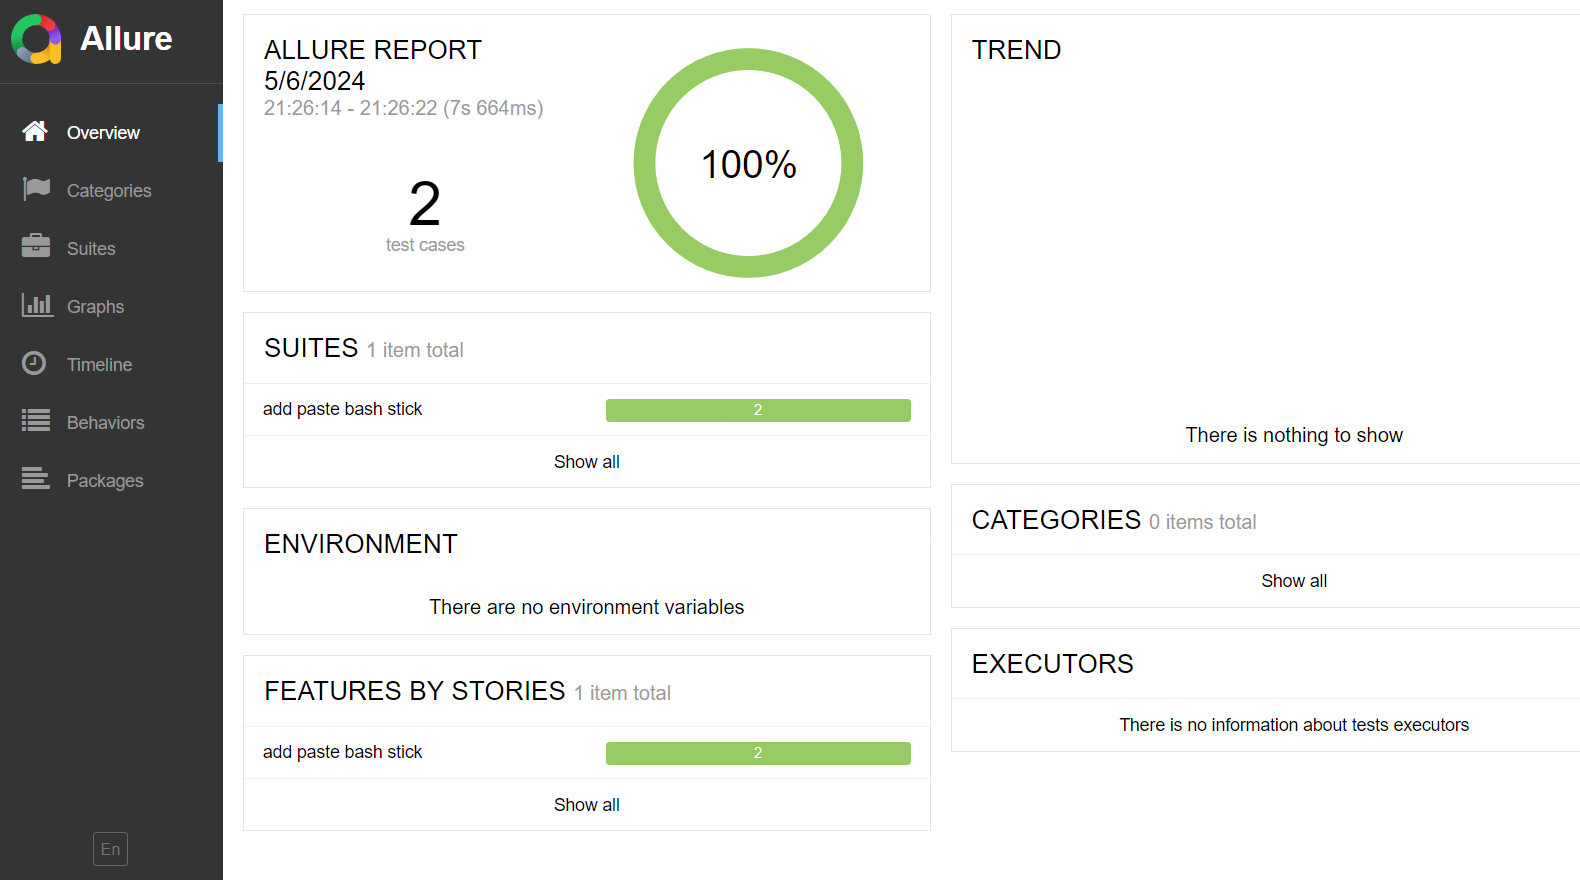
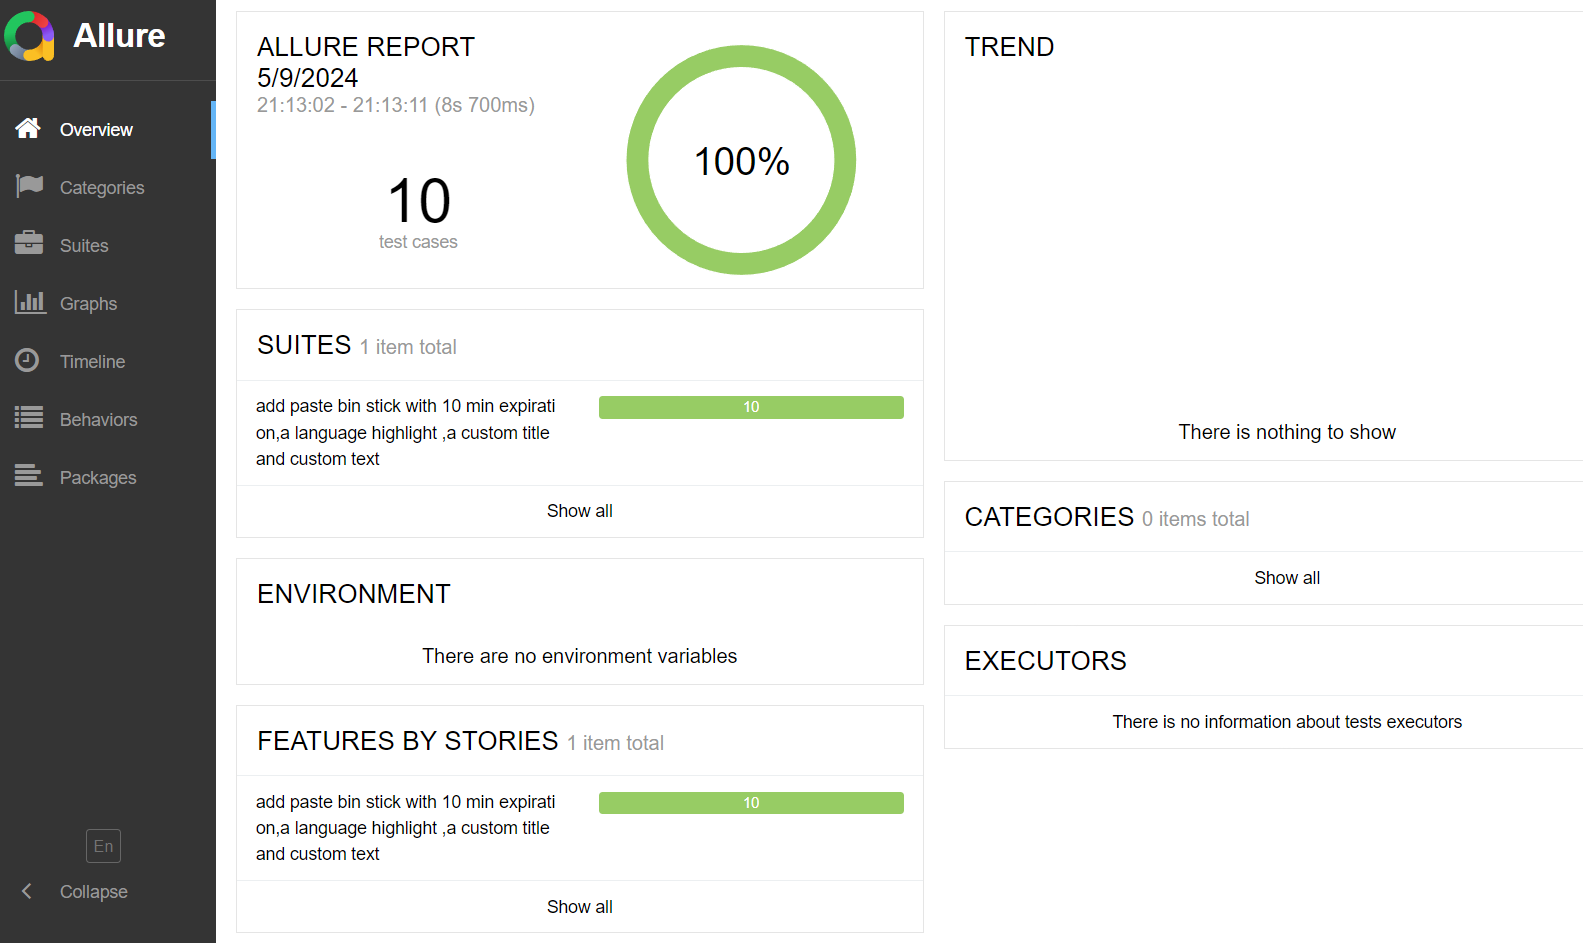
Se reestructura el archivo de pruebas

diff --git a/WebDriver-Task-2/test/specs/test.e2e.js b/WebDriver-Task-2/test/specs/test.e2e.js
@@ -7,78 +7,129 @@ const titlePage = require('../../pageObject/components/title.js');
 const topButton = require('../../pageObject/components/topbuttons.js');
 const sourceElement = require('../../pageObject/components/source.js');
 
-const binPage = new pastebinPage();
-const formPage = new form();
-const dropMenuPage = new dropMenu();
-const titleMenu = new titlePage();
-const topButtonMenu = new topButton();
-const sourceMenu = new sourceElement();
+const screenShotsFilePath = './screenshots/';
 
-describe('add paste bash stick', () => {
+let binPage = '';
+let formPage = '';
+let dropMenuPage = '';
+let titleMenu = '';
+let topButtonMenu = '';
+let sourceMenu = '';
+
+const initialPageTitle = 'Pastebin.com - #1 paste tool since 2002!';
+const desiredStickyText = 'git config --global user.name  "New Sheriff in Town" \ngit reset $(git commit-tree HEAD^{tree} -m "Legacy code") \ngit push origin master --force';
+
+const inputText = ['git config','--global','user.name','"New Sheriff in Town"',
+        'git reset','git commit-tree','HEAD^','"Legacy code"',
+        'git push','origin master','--force']
+
+const desiredExpirationValue = '10 Minutes';
+const formexpirationValue = '10m';
+
+const desiredLanguage = 'Bash';
+const formlanguageValue = 'bash';
+
+const desiredStickyTitleValue = 'how to gain dominance among developers';
+
+describe('add paste bin stick with 10 min expiration,a language highlight ,a custom title and custom text', () => {
     
-    beforeEach(async()=>{
+    before(async()=>{
+        binPage = new pastebinPage();
+        formPage = new form();
+        dropMenuPage = new dropMenu();
+        titleMenu = new titlePage();
+        topButtonMenu = new topButton();
+        sourceMenu = new sourceElement();
         await binPage.open();
     })
 
-    it('check adding the bash parameters', async () => {
+    it('check The sticky page title',async()=>{
+        const title = await titleMenu.rootEl;
+
+        expect(title).toHaveText(initialPageTitle);
+    })
+
+    it('check that the text form is changed to the desired value',async()=>{
         const textForm = await formPage.formElements('text');
-        const expirationbutton = await formPage.formElements('expirationbutton');
-        const languagebutton = await formPage.formElements('highlight');
-        const pasteTitleText = await formPage.formElements('pastetitle');
-        const addButton = await formPage.formElements('addbutton');
-
         await textForm.clearValue();
-        await textForm.addValue('git config --global user.name  "New Sheriff in Town" \n');
-        await textForm.addValue('git reset $(git commit-tree HEAD^{tree} -m "Legacy code") \n');
-        await textForm.addValue('git push origin master --force');
+        await textForm.setValue(desiredStickyText);
+        await saveScreenShot(screenShotsFilePath,'saveText.png');
 
-        await saveScreenShot('./screenshots/','saveText.png');
+        expect(textForm).toHaveText(desiredStickyText)
+    })
 
+    it('check that the expiration is changed to the desired value',async()=>{
+        const expirationbutton = await formPage.formElements('expirationbutton');
         await binPage.scrollDown(0,600);
         await expirationbutton.click();
+
         await (await dropMenuPage.rootEl).isExisting();
-        const expirationDrop = await dropMenuPage.dropMenuElement('10m');
+        const expirationDrop = await dropMenuPage.dropMenuElement(formexpirationValue);
+
         await expirationDrop.click();
 
-        await saveScreenShot('./screenshots/','saveExpiration.png');
+        await saveScreenShot(screenShotsFilePath,'saveExpiration.png');
 
-        await pasteTitleText.setValue('how to gain dominance among developers');
-        await saveScreenShot('./screenshots/','savetitle.png');
-      
+        expect(expirationbutton).toHaveText(desiredExpirationValue);
+    })
+
+    it(`Check that the language is changed to the desired value`,async()=>{
+        const languagebutton = await formPage.formElements('highlight');
         
         await languagebutton.click();
         await (await dropMenuPage.langEl).isExisting();
 
-        await dropMenuPage.filterMenuLanguages('bash');
-        const languageDrop = await dropMenuPage.dropMenuLanguages('bash');
+        await dropMenuPage.filterMenuLanguages(formlanguageValue);
+        const languageDrop = await dropMenuPage.dropMenuLanguages(formlanguageValue);
         await languageDrop.click();
 
-        await saveScreenShot('./screenshots/','saveLanguage.png');
+        await saveScreenShot(screenShotsFilePath,'saveLanguage.png');
+
+        expect(languagebutton).toHaveText(desiredLanguage)
+    })
+
+    it(`Check that the sticky title value is changed to the desired value`,async()=>{
+        
+        const pasteTitleText = await formPage.formElements('pastetitle');
+        await pasteTitleText.setValue(desiredStickyTitleValue);
+
+        await saveScreenShot(screenShotsFilePath,'savetitle.png');
+
+        expect(pasteTitleText).toHaveText(desiredStickyTitleValue);
+    })
+
+    it('Check adding a new paste bin',async()=>{
+        const addButton = await formPage.formElements('addbutton');
 
         await binPage.scrollDown(0,600);
         await addButton.click();
 
-        const pageTitle = 'how to gain dominance among developers';
-        const langType = 'Bash';
-        const inputText = ['git config','--global','user.name','"New Sheriff in Town"',
-        'git reset','git commit-tree','HEAD^','"Legacy code"',
-        'git push','origin master','--force']
-
         const title = await titleMenu.rootEl;
-        const languageText = await topButtonMenu.buttonElement(langType);
+
+        await saveScreenShot(screenShotsFilePath,'newPage.png');
+
+        expect(title).toHaveText(desiredStickyTitleValue)
+    })
+
+    it(`Check the language of the sticky note`,async()=>{
+        const languageText = await topButtonMenu.buttonElement(desiredLanguage);
+        expect(languageText).toHaveText(desiredLanguage)
+    })
+
+    it('check the result text', async () => {
         const sourceItem = await sourceMenu.rootEl;
-
-        await saveScreenShot('./screenshots/','newPage.png');
-
-        expect(title).toHaveText(pageTitle) && expect(languageText).toHaveText(langType)
-        && expect(sourceItem).toHaveText(inputText[0]) && expect(sourceItem).toHaveText(inputText[1])
-        && expect(sourceItem).toHaveText(inputText[2]) && expect(sourceItem).toHaveText(inputText[3])
-        && expect(sourceItem).toHaveText(inputText[4]) && expect(sourceItem).toHaveText(inputText[5])
-        && expect(sourceItem).toHaveText(inputText[6]) && expect(sourceItem).toHaveText(inputText[7])
-        && expect(sourceItem).toHaveText(inputText[8]) && expect(sourceItem).toHaveText(inputText[9])
-        && expect(sourceItem).toHaveText(inputText[10])
+        //Validation done this way cause the HTML to simplify the validation processs
+        expect(sourceItem).toHaveText(inputText)
         
-        //expect(pasteTitleText).toHaveText('how to gain dominance among developers');
+    })
+
+    after(async()=>{
+        binPage = null;
+        formPage = null;
+        dropMenuPage = null;
+        titleMenu = null;
+        topButtonMenu = null;
+        sourceMenu = null;
     })
 })
 

diff --git a/WebDriver-Task-2/pageObject/components/dropmenu.js b/WebDriver-Task-2/pageObject/components/dropmenu.js
@@ -20,32 +20,17 @@ class dropmenu {
     }
 
     async dropMenuLanguages(param){
-        if(param != 'None'){
-            const selector = {
-                bash: 'Bash'
-            }
-            const select = await this.langEl.$(`//li[contains(text(),"${selector[param.toLowerCase()]}")]`);
-            return select;
-        }else{
-            return await findElementInList('None',this.langEl.$$('li'));
+        const selector = {
+            bash: 'Bash'
         }
+        const select = await this.langEl.$(`//li[contains(text(),"${selector[param.toLowerCase()]}")]`);
+        return select;
     }
 
     async filterMenuLanguages(param){
         const filter = await this.filterLangEl;
         filter.setValue(param);
     }
-}
-
-async function findElementInList(text,arrayList){
-    const findElements = await arrayList.filter(async (element)=>{
-        const htmltext = await element.getHTML();
-        if(htmltext.includes(text)){
-            return true;
-        }
-        return false;
-    })
-    return findElements[0];
 }
 
 module.exports = dropmenu

diff --git a/WebDriver-Task-2/pageObject/components/formcomponent.js b/WebDriver-Task-2/pageObject/components/formcomponent.js
@@ -6,7 +6,6 @@ class form {
     formElements(param){
         const selector = {
             text : '.js-create-form>.form-group>.js-paste-code',
-            expirationoptions : '#postform-expiration.form-control',
             expirationbutton: '#select2-postform-expiration-container',
             highlight: '#select2-postform-format-container',
             pastetitle: '#postform-name',
